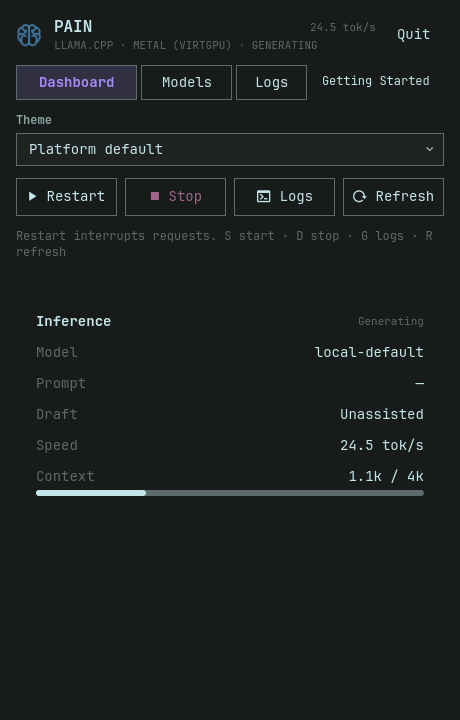
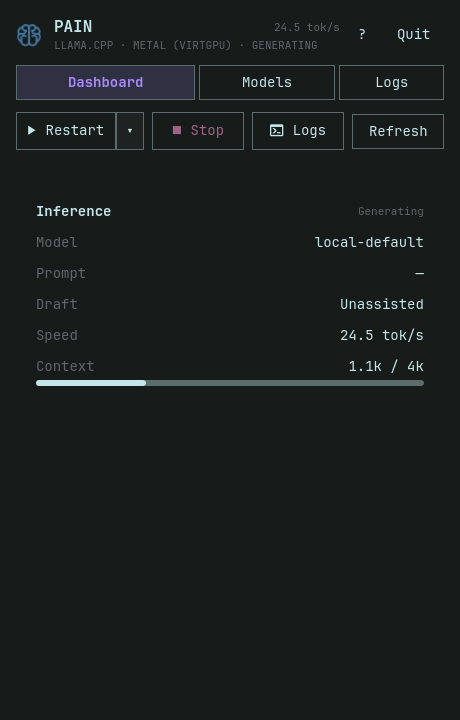
Simplify the toolbar with compact help and an attached backend selector

diff --git a/desktop/src/Tray.stories.ts b/desktop/src/Tray.stories.ts
@@ -11,25 +11,18 @@ export const Generating = scenario({when:'The engine generates tokens',then:'Con
 export const Starting = scenario({when:'The engine is starting',then:'Start is disabled until the operation finishes',check:async ({canvasElement})=>{const start=within(canvasElement).getByRole('button',{name:'Starting…'});await expect(start).toHaveAttribute('aria-disabled','true');onAction.mockClear();await userEvent.click(start);await expect(onAction).not.toHaveBeenCalled();}},{render:()=>domStory(panel(fixtures.starting,onAction))});
 export const Failure = scenario({when:'Metal is unavailable',then:'The actionable failure is visible',check:async ({canvasElement})=>{await expect(within(canvasElement).getByRole('alert')).toHaveTextContent('No VirtGPU Metal device');}},{render:()=>domStory(panel(fixtures.failure,onAction))});
 
-export const Appearance = scenario({
-  when:'The appearance changes while editing a model URL',
-  then:'The selected theme applies immediately without changing the page, input, or engine',
+export const CompactToolbar = scenario({
+  when:'The compact toolbar is used',
+  then:'Help opens from the question mark and letter shortcuts do not control the engine',
   check:async ({canvasElement})=>{
     const c=within(canvasElement);
-    const saved=localStorage.getItem('pain.appearance');
-    try {
-      await userEvent.click(c.getByRole('tab',{name:'Models'}));
-      await userEvent.type(c.getByRole('textbox',{name:'Model GGUF URL'}),'https://example.invalid/model.gguf');
-      onAction.mockClear();
-      await userEvent.selectOptions(c.getByRole('combobox',{name:'Theme'}),'omarchy');
-      await expect(canvasElement.querySelector('.zen-application')).toHaveAttribute('data-appearance','omarchy');
-      await expect(c.getByRole('textbox',{name:'Model GGUF URL'})).toHaveValue('https://example.invalid/model.gguf');
-      await expect(localStorage.getItem('pain.appearance')).toBe('omarchy');
-      await expect(onAction).not.toHaveBeenCalled();
-      await userEvent.selectOptions(c.getByRole('combobox',{name:'Theme'}),'platform');
-      await expect(canvasElement.querySelector('.zen-application')).toHaveAttribute('data-appearance','visuals');
-    } finally {
-      if(saved===null)localStorage.removeItem('pain.appearance');else localStorage.setItem('pain.appearance',saved);
-    }
+    await expect(c.queryByRole('combobox',{name:'Theme'})).toBeNull();
+    onAction.mockClear();
+    await userEvent.click(c.getByRole('button',{name:'?'}));
+    await expect(onAction).toHaveBeenCalledWith('getting-started',undefined);
+    onAction.mockClear();
+    await userEvent.keyboard('sdgr');
+    await expect(onAction).not.toHaveBeenCalled();
+    await expect(c.getByRole('tab',{name:'Dashboard'})).toHaveAttribute('aria-selected','true');
   },
 },{render:()=>domStory(panel(fixtures.offline,onAction))});

diff --git a/desktop/src/panel.tsx b/desktop/src/panel.tsx
@@ -3,7 +3,6 @@ import { Application } from '@satoramoto/zen/harness/omarchy/bench/Application.t
 import type { ApplicationNode } from '@satoramoto/zen/harness/omarchy/kit/application.mjs';
 import { appView } from '../../integrations/omarchy/pain/App.mjs';
 import { initialState, transition, keyAction } from '../../integrations/omarchy/pain/AppState.mjs';
-import { appearanceFor, validTheme } from '../../integrations/omarchy/pain/Appearance.mjs';
 import { ThemeFrame } from './theme';
 import './style.css';
 
@@ -26,21 +25,16 @@ type Act = (name: Action, value?: string) => void;
 
 // This host supplies state and executes effects. Layout lives in App.mjs.
 function Panel({ status, action, logs }: { status: Status; action: Act; logs: LogsState }) {
-  const [ui, setUi] = useState(() => {
-    const state = initialState(status);
-    try { const saved = localStorage.getItem('pain.appearance'); if (validTheme(saved)) state.theme = saved!; } catch { /* A restricted webview can still use the platform default. */ }
-    return state;
-  });
+  const [ui, setUi] = useState(() => initialState(status));
   useEffect(() => setUi(current => ({ ...current, folder: status.modelsDir || '' })), [status.modelsDir]);
   const send = (name: string, payload?: unknown, value?: unknown) => {
     const next = transition(ui, status, name, value === undefined ? payload : value, logs);
     setUi(next.state);
-    if (name === 'select-theme') { try { localStorage.setItem('pain.appearance', next.state.theme); } catch { /* Keep the live selection when storage is unavailable. */ } }
     for (const effect of next.effects) {
       if (effect.action !== 'close') action(effect.action as Action, effect.payload as string | undefined);
     }
   };
-  return <ThemeFrame appearance={appearanceFor(ui.theme, 'mac')}><Application appearance={appearanceFor(ui.theme, 'mac')} tree={appView(status, ui, logs) as ApplicationNode} dispatch={send} handleKey={key => {
+  return <ThemeFrame><Application appearance="visuals" tree={appView(status, ui, logs) as ApplicationNode} dispatch={send} handleKey={key => {
     const command = keyAction(ui, key);
     if (!command) return false;
     send(command); return true;

diff --git a/integrations/omarchy/pain/Widget.qml b/integrations/omarchy/pain/Widget.qml
@@ -1,6 +1,5 @@
 import QtQuick
 import QtQuick.Controls
-import QtCore
 import Quickshell
 import Quickshell.Io
 import qs.Ui
@@ -8,7 +7,6 @@ import qs.Commons as Commons
 import "Model.js" as Model
 import "App.mjs" as View
 import "AppState.mjs" as State
-import "Appearance.mjs" as Appearance
 import ".generated" as Zen
 
 // Native host only: window, IPC, telemetry polling and action execution.
@@ -17,12 +15,7 @@ Panel {
   moduleName: "local.pain"
   ipcTarget: "local.pain"
   manageIpc: false
-  Settings {
-    id:preferences
-    location:"file://"+(Quickshell.env("XDG_STATE_HOME") || Quickshell.env("HOME")+"/.local/state")+"/pain/ui.ini"
-    property string appearance:"platform"
-  }
-  Zen.ApplicationTheme { id:applicationTheme; name:Appearance.appearanceFor(root.ui.theme,"linux") }
+  Zen.ApplicationTheme { id:applicationTheme; name:"omarchy" }
   property var status: ({})
   property var ui: State.initialState()
   property var logs: ({state:"idle",content:"",error:""})
@@ -45,7 +38,6 @@ Panel {
   function dispatch(action,payload,value) {
     var next=State.transition(ui,viewStatus,action,value===undefined?payload:value,logs)
     ui=next.state
-    if(action==="select-theme") preferences.appearance=ui.theme
     for(var effect of next.effects) {
       if(effect.action === "refresh") refresh()
       else if(effect.action === "close" || effect.action === "quit") close()
@@ -76,7 +68,7 @@ Panel {
   }
   implicitWidth:button.implicitWidth
   implicitHeight:button.implicitHeight
-  Component.onCompleted:{ ui=Object.assign({},ui,{theme:Appearance.validTheme(preferences.appearance)?preferences.appearance:"platform"}); refresh() }
+  Component.onCompleted:refresh()
   onOpenedChanged:if(opened) { refresh(); Qt.callLater(()=>application.forceActiveFocus()) }
   // Poll slowly for the bar glyph while closed; the open panel tracks the slot.
   Timer {

diff --git a/desktop/src/theme.tsx b/desktop/src/theme.tsx
@@ -1,4 +1,3 @@
-import { appearanceFor } from '../../integrations/omarchy/pain/Appearance.mjs';
 import type { ReactNode } from 'react';
 import { Surface, ThemeScope } from './zen';
 
@@ -22,13 +21,8 @@ const facets = {
   },
 };
 
-export function ThemeFrame({ children, appearance }: { children: ReactNode; appearance?: string }) {
-  let selected = appearance;
-  if (!selected) {
-    try { selected = appearanceFor(localStorage.getItem('pain.appearance'), 'mac'); } catch { selected = 'visuals'; }
-  }
-  const chosen = resolveApplicationTheme(selected || 'visuals');
-  return <ThemeScope facets={selected === 'visuals' ? facets : chosen.facets} principles={chosen.pack.principles} mode="system" bleed>
+export function ThemeFrame({ children }: { children: ReactNode }) {
+  return <ThemeScope facets={facets} principles={visuals.pack.principles} mode="system" bleed>
     <Surface layer="ground" className="pain-window">{children}</Surface>
   </ThemeScope>;
 }

diff --git a/scripts/render-omarchy.py b/scripts/render-omarchy.py
@@ -24,7 +24,7 @@ def main():
     ):
         target = work / name
         if not target.exists(): target.symlink_to(source_path, target_is_directory=source_path.is_dir())
-    for name in ('App.mjs', 'AppState.mjs', 'Appearance.mjs'):
+    for name in ('App.mjs', 'AppState.mjs'):
         target = work / name
         if not target.exists(): target.symlink_to(ROOT / 'integrations/omarchy/pain' / name)
     fixtures = json.loads((ROOT / 'desktop/public/fixtures.json').read_text())
@@ -42,7 +42,7 @@ Window {
     property var status: STATUS
     Zen.ApplicationTheme { id:theme; name:THEME }
     Rectangle { id:capture; anchors.fill:parent; color:"#171b1a"
-        Zen.Application { anchors.fill:parent; theme:theme.snapshot; tree:View.appView(status,State.initialState(status)) }
+        Zen.Application { anchors.fill:parent; theme:theme.snapshot; tree:View.appView(status,State.initialState(status),undefined,{backendSelection:true,guide:true}) }
     }
     Timer { interval:1200; running:true; onTriggered:capture.grabToImage(function(result) { if(!result.saveToFile(OUTPUT)) Qt.exit(2); else Qt.quit() }) }
 }

diff --git a/docs/macos.md b/docs/macos.md
@@ -43,12 +43,11 @@ are external persistent data, never part of the app bundle.
 The **Dashboard** and **Models** tabs share a pinned, aligned action toolbar.
 Mac uses Visual Flow's Zen theme, separated glass section surfaces and native
 macOS HUD-window vibrancy. Linux renders the same view through Zen’s QML
-application binding, using the live Omarchy style by default. The shared **Theme**
-picker offers **Platform default**, **Omarchy**, and **Visual Flow** and remembers
-the selection. Native Omarchy controls follow the desktop’s button states, colors,
-font and corners. The Mac Omarchy option uses Zen’s portable fallback palette
-because macOS has no Omarchy shell. Layout and engine state stay unchanged when
-switching themes.
+application binding, using the live Omarchy style. Native controls follow the
+desktop’s button states, colors, font and corners. The header’s **?** button opens
+Getting Started. Linux’s Start button has an attached backend dropdown; selecting
+an option changes the next start without starting or stopping the engine.
+
 
 The separate **Models** view shows supported presets, download sizes and local
 availability. Use **Download** or **Resume** to fetch a preset and **Use** to

diff --git a/AGENTS.md b/AGENTS.md
@@ -1,8 +1,7 @@
 # PAIN development
 
 The Mac view is the layout and interaction reference for every platform. Linux
-defaults to the live Omarchy style; macOS defaults to Visual Flow frost. Theme
-selection changes materials and controls without forking the shared layout. Define
+uses the live Omarchy style; macOS uses Visual Flow frost. Define
 the entire interface once through Zen's portable view vocabulary: dashboard,
 navigation, model manager, logs, and controls. Both the browser and QML renderers
 consume that definition. Do not keep separate React and handwritten QML screens.
